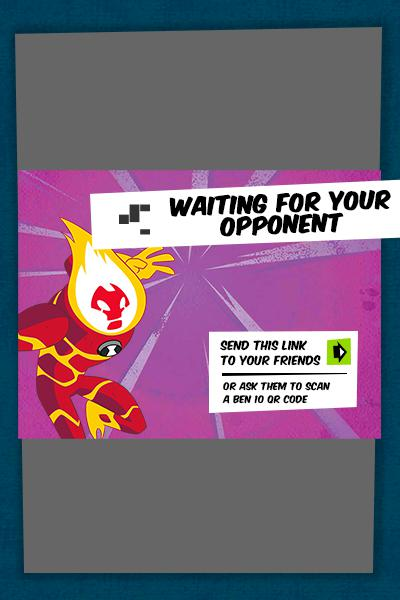
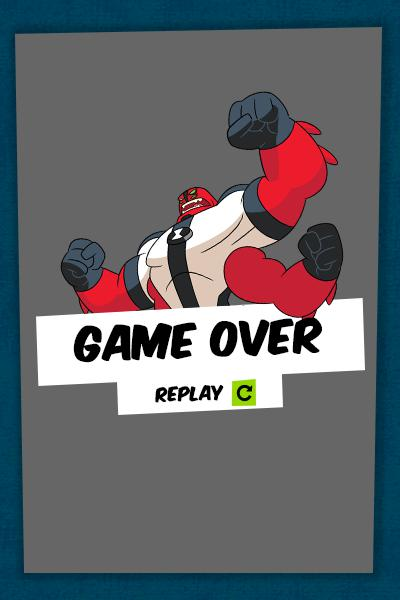
Added new files from deniz

diff --git a/src/client/ben10/css/style.css b/src/client/ben10/css/style.css
@@ -198,7 +198,7 @@ iframe {
 
 .yXzVEYTG {
     position: absolute;
-    display: block;
+    display: none;
     height: 44.833333333333336%;
     width: 90.75%;
     top: 28.25%;
@@ -212,7 +212,7 @@ iframe {
 
 .ZMajWxcn {
     position: absolute;
-    display: block;
+    display: none;
     height: 11.833333333333334%;
     width: 77.5%;
     top: 29.75%;
@@ -226,7 +226,7 @@ iframe {
 
 .axOhGlJz {
     position: absolute;
-    display: block;
+    display: none;
     height: 34.166666666666664%;
     width: 25.25%;
     top: 30.333333333333332%;
@@ -240,7 +240,7 @@ iframe {
 
 .sYsZuBxP {
     position: absolute;
-    display: block;
+    display: none;
     height: 13.666666666666666%;
     width: 37.25%;
     top: 55.166666666666664%;
@@ -250,4 +250,32 @@ iframe {
     background-color: rgba(255, 255, 255, 0);
     background-size: contain;
     z-index: 5;
+}
+
+.tyBsidid {
+    position: absolute;
+    display: block;
+    height: 49.166666666666664%;
+    width: 82.25%;
+    top: 15.083333333333334%;
+    left: 8.875%;
+    background-repeat: no-repeat;
+    background-image: url("../images/07%20game%20over.png");
+    background-color: rgba(255, 255, 255, 0);
+    background-size: contain;
+    z-index: 6;
+}
+
+.brhsxEhU {
+    position: absolute;
+    display: block;
+    height: 7.166666666666667%;
+    width: 41.5%;
+    top: 61.916666666666664%;
+    left: 29.25%;
+    background-repeat: no-repeat;
+    background-image: url("../images/08%20replay.png");
+    background-color: rgba(255, 255, 255, 0);
+    background-size: contain;
+    z-index: 7;
 }

diff --git a/src/client/ben10/index.html b/src/client/ben10/index.html
@@ -55,6 +55,14 @@
                     data-label="05 send this linlk"
                     class="sYsZuBxP sYsZuBxP item">
                </div>
+<div id="tyBsidid"
+                    data-label="07 game over"
+                    class="tyBsidid tyBsidid item">
+               </div>
+<div id="brhsxEhU"
+                    data-label="08 replay"
+                    class="brhsxEhU brhsxEhU item">
+               </div>
 
               </div>
 

diff --git a/src/client/ben10/js/code.js b/src/client/ben10/js/code.js
@@ -9,7 +9,7 @@ window.onload = function() {
     "expandingDirection": null,
     "device": "mobile",
     "published": false,
-    "totalSize": 436455
+    "totalSize": 556618
   };
   AAS.units = [{
     "unitId": "sZVNekKv",
